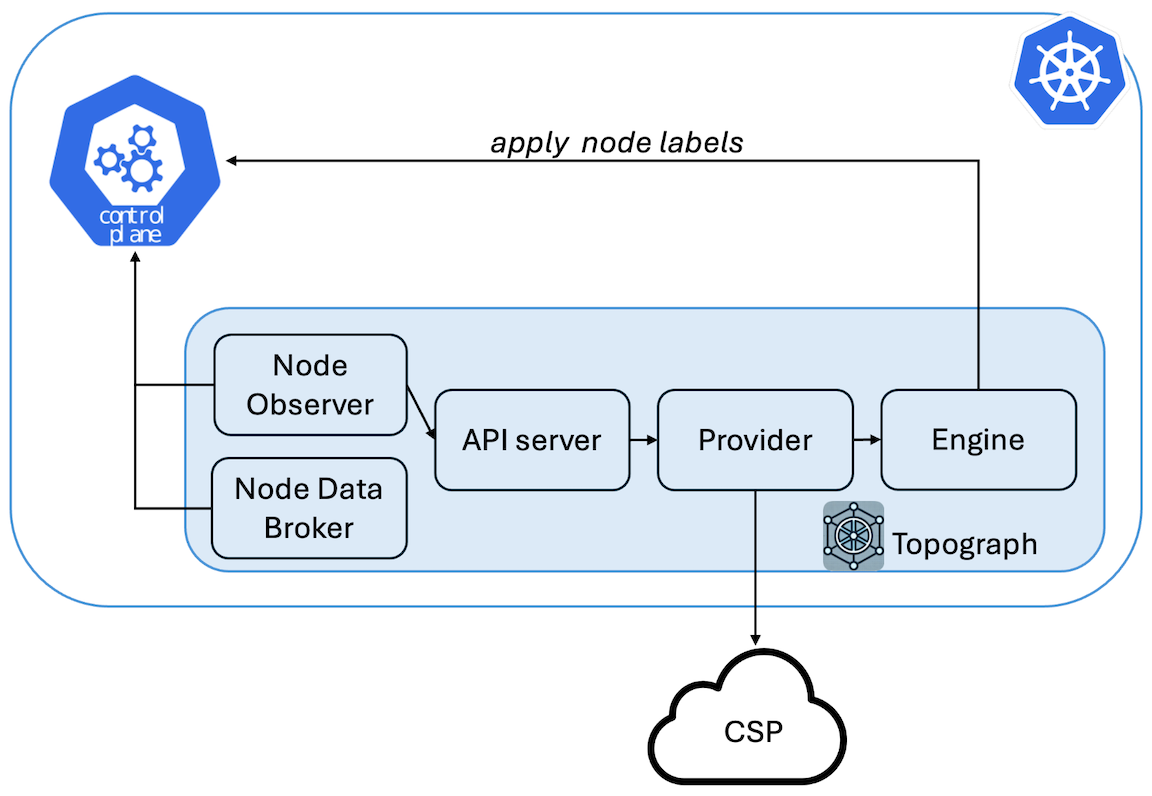
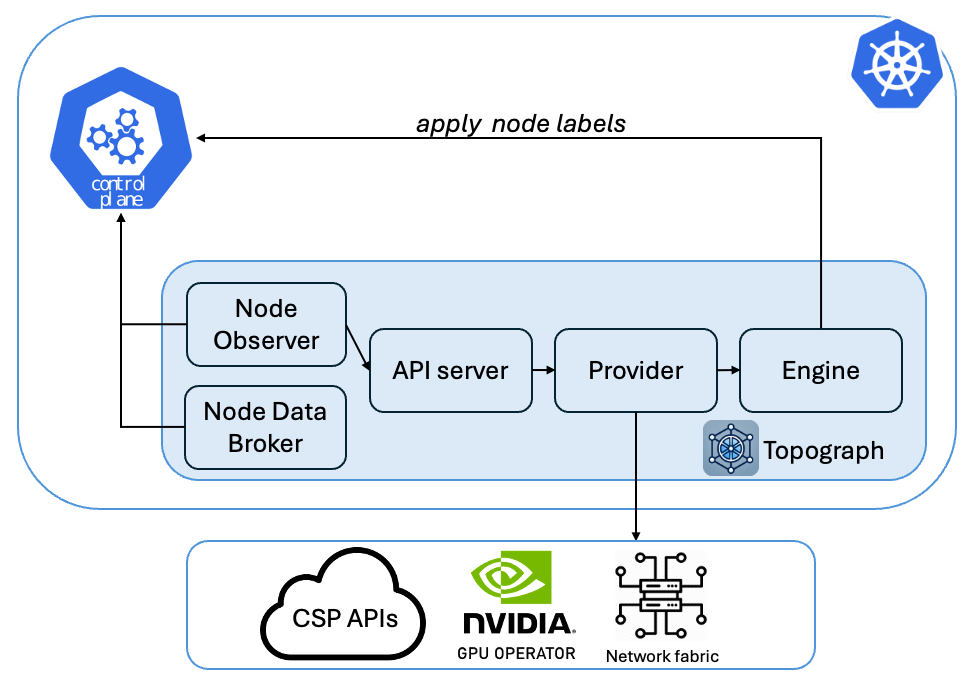
chore(docs): update docs and diagrams (#451)

diff --git a/docs/design/nfd-engine-sdd.md b/docs/design/nfd-engine-sdd.md
@@ -18,13 +18,15 @@ NFD CRs for consumers that already watch NFD.
 
 ## Background
 
-Topograph maps topology into Kubernetes label dimensions including:
+Topograph maps topology into optional XCLR dimensions and a variable-depth
+fabric label family:
 
 - `xclr.topology.nvidia.com/domain`
 - `xclr.topology.nvidia.com/sub-domain`
-- `network.topology.nvidia.com/tier-0`
-- `network.topology.nvidia.com/tier-1`
-- `network.topology.nvidia.com/tier-2`
+- `network.topology.nvidia.com/tier-N`
+
+Fabric tier 0 is closest to the node and higher tiers progress outward. There
+is no fixed number of fabric tiers or total topology dimensions.
 
 NFD `NodeFeatureGroup` is an alpha NFD API. NFD master watches
 `NodeFeatureGroup` objects, evaluates their feature-group rules, and writes the
@@ -186,9 +188,10 @@ Two NFD-side extensions could make this model more practical:
 
 ## etcd Size Estimate
 
-For a 10,000-node cluster, the rough live custom-resource payload is likely in
-the 10-30 MiB range before etcd MVCC history, compaction effects, and filesystem
-overhead.
+For a 10,000-node cluster, the live custom-resource payload depends on the
+number of topology dimensions and the number of distinct values within each
+dimension. Let `D` be the average number of published dimensions per node: all
+discovered fabric tiers plus any XCLR domain and sub-domain.
 
 Assumptions:
 
@@ -196,7 +199,7 @@ Assumptions:
 - One topology attribute for every discovered fabric tier, XCLR domain, and
   XCLR sub-domain.
 - Each node appears in one `NodeFeatureGroup.status.nodes` list per topology
-  dimension, so status contains about 40,000 node references total.
+  dimension, so status contains about `10,000 × D` node references total.
 - Average node names and topology values are short, roughly 10-30 characters.
 - Updates avoid large `managedFields` payloads and unnecessary annotations.
 
@@ -204,23 +207,24 @@ Estimated live payload:
 
 | Object data | Count | Per-item estimate | Total |
 |---|---:|---:|---:|
-| `NodeFeature` objects | 10,000 | 0.7-1.5 KiB | 7-15 MiB |
-| `NodeFeatureGroup` specs and metadata | ~1,500-2,000 groups | 0.8-1.5 KiB | 1-3 MiB |
-| `NodeFeatureGroup.status.nodes` entries | 40,000 memberships | 25-50 B | 1-2 MiB |
+| `NodeFeature` objects | 10,000 | 0.7-1.5 KiB for a few dimensions | Roughly 7-15 MiB, increasing with `D` |
+| `NodeFeatureGroup` specs and metadata | One group per distinct value in each dimension | 0.8-1.5 KiB | Depends on topology fanout and `D` |
+| `NodeFeatureGroup.status.nodes` entries | `10,000 × D` memberships | 25-50 B | Roughly `0.24-0.48 × D` MiB |
 
-The group count depends on topology fanout, but the status membership count is
-mostly stable: each node appears once per published topology dimension. A single
-large group, such as one core switch containing all 10,000 nodes, would carry a
-large status list of roughly 250-500 KiB with short node names. That is probably
-workable, but it gets closer to Kubernetes object-size limits if node names are
-long or status later grows more fields.
+The group count depends on topology fanout and depth. The status membership
+count is predictable once `D` is known because each node appears once per
+published topology dimension. A single large group, such as one outer-tier
+switch containing all 10,000 nodes, would carry a large status list of roughly
+250-500 KiB with short node names. That is probably workable, but it gets closer
+to Kubernetes object-size limits if node names are long or status later grows
+more fields.
 
 The practical storage budget should be higher than the live payload estimate.
 During topology refreshes, etcd keeps old revisions until compaction and
 database defragmentation. If Topograph updates every `NodeFeature` and
 `NodeFeatureGroup` on every run, temporary and on-disk usage can grow well above
-the live 10-30 MiB payload. The implementation should skip no-op updates and use
-small patches to reduce write amplification.
+the live payload. The implementation should skip no-op updates and use small
+patches to reduce write amplification.
 
 ## Test Plan
 

diff --git a/docs/engines/nfd.md b/docs/engines/nfd.md
@@ -14,6 +14,12 @@ It creates:
 NFD master evaluates those features and writes matching nodes to
 `NodeFeatureGroup.status.nodes`.
 
+Fabric topology is variable-depth. The engine publishes `fabric-tier-N` for
+every discovered tier, where tier 0 is closest to the node and higher tiers
+progress outward; there is no fixed number of fabric attributes or groups.
+XCLR domain and optional sub-domain attributes are published separately when
+the provider supplies them.
+
 ## When to Use
 
 Use `engine: nfd` only when a downstream component already consumes NFD
@@ -102,7 +108,7 @@ default limiter. Outside Helm, set the environment variables directly.
 
 ## Generated Objects
 
-For a node on `leaf-12`, the engine writes a `NodeFeature` like:
+For a node on a three-tier fabric, the engine writes a `NodeFeature` like:
 
 ```yaml
 apiVersion: nfd.k8s-sigs.io/v1alpha1

diff --git a/CHANGELOG.md b/CHANGELOG.md
@@ -270,7 +270,7 @@ Initial release.
 ### Added
 
 - Core **Topograph API server** with `/v1/generate` and asynchronous topology retrieval.
-- **Providers**: AWS, GCP, OCI, Nebius, InfiniBand (bare-metal and Kubernetes), and DRA).
+- **Providers**: AWS, GCP, OCI, Nebius, InfiniBand (bare-metal and Kubernetes), and DRA.
 - **Engines**: Kubernetes (node labels), Slurm (`topology.conf`), and Slinky (ConfigMap).
 - **Kubernetes components**: node-observer Deployment and node-data-broker DaemonSet (Helm subcharts).
 - **Helm chart** for deploying Topograph on Kubernetes.

diff --git a/docs/modeling.md b/docs/modeling.md
@@ -214,7 +214,7 @@ Ranges are accepted in:
 
 After YAML parsing, Topograph completes the model before simulation uses it:
 
-- Capacity block node ranges are expanded.
+- Compact ranges in Capacity block node ranges are expanded.
 - Block `switch` references attach block nodes to switches.
 - Switch names are copied from their map keys.
 - Nodes are created from `blocks[].nodes`.

diff --git a/docs/architecture.md b/docs/architecture.md
@@ -8,7 +8,7 @@ Topograph consists of five major components:
 4. **Provider**
 5. **Engine**
 
-<p align="center"><img src="assets/design.png" width="600" alt="Design" /></p>
+<p align="center"><img src="assets/topograph-arch.png" width="600" alt="Design" /></p>
 
 ## Components
 
